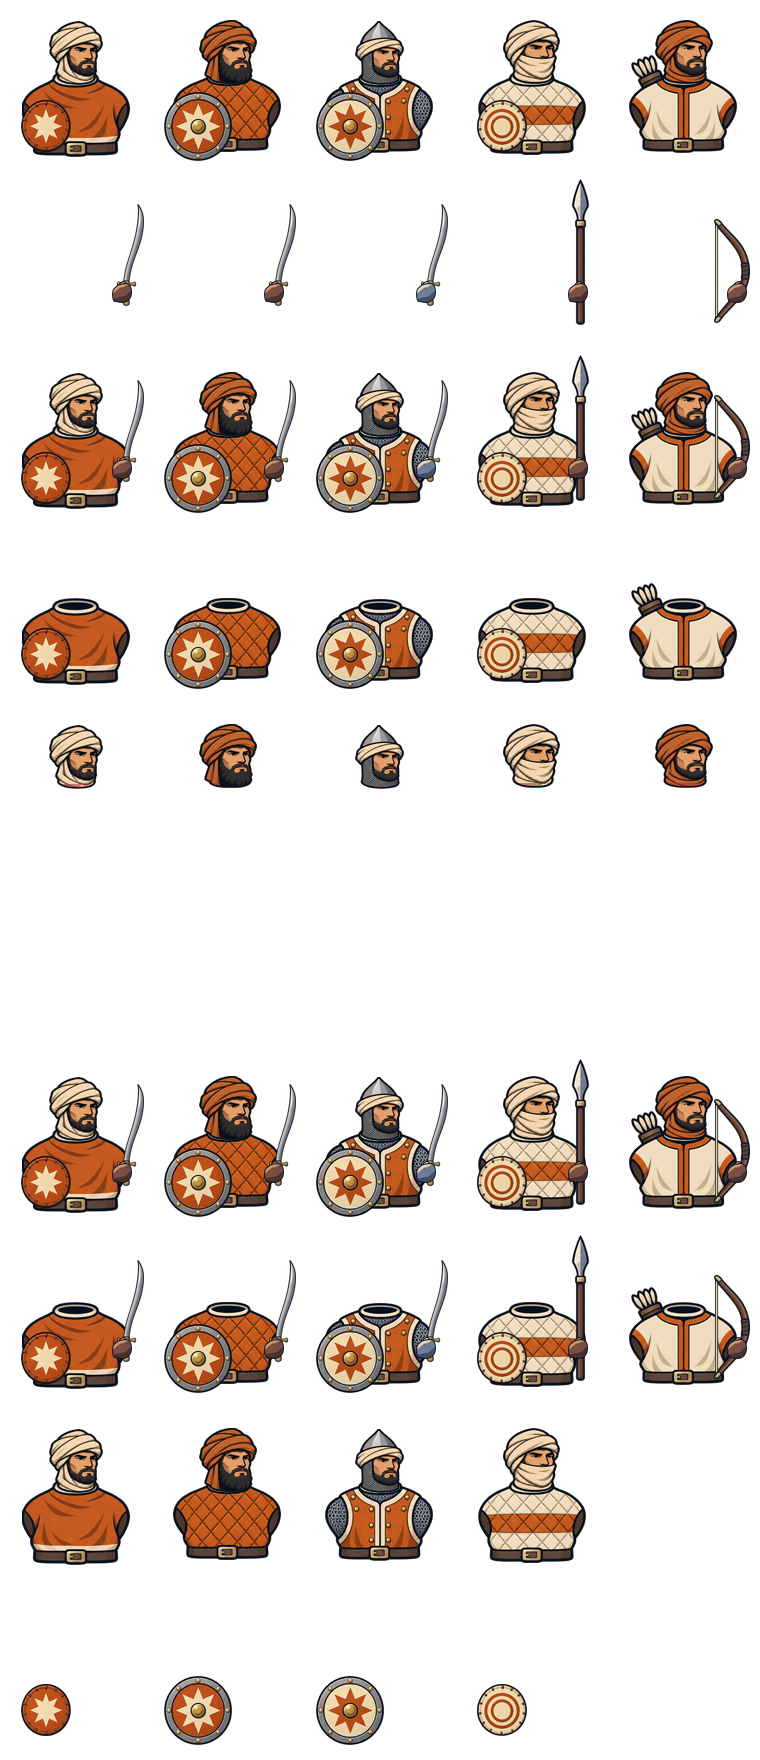
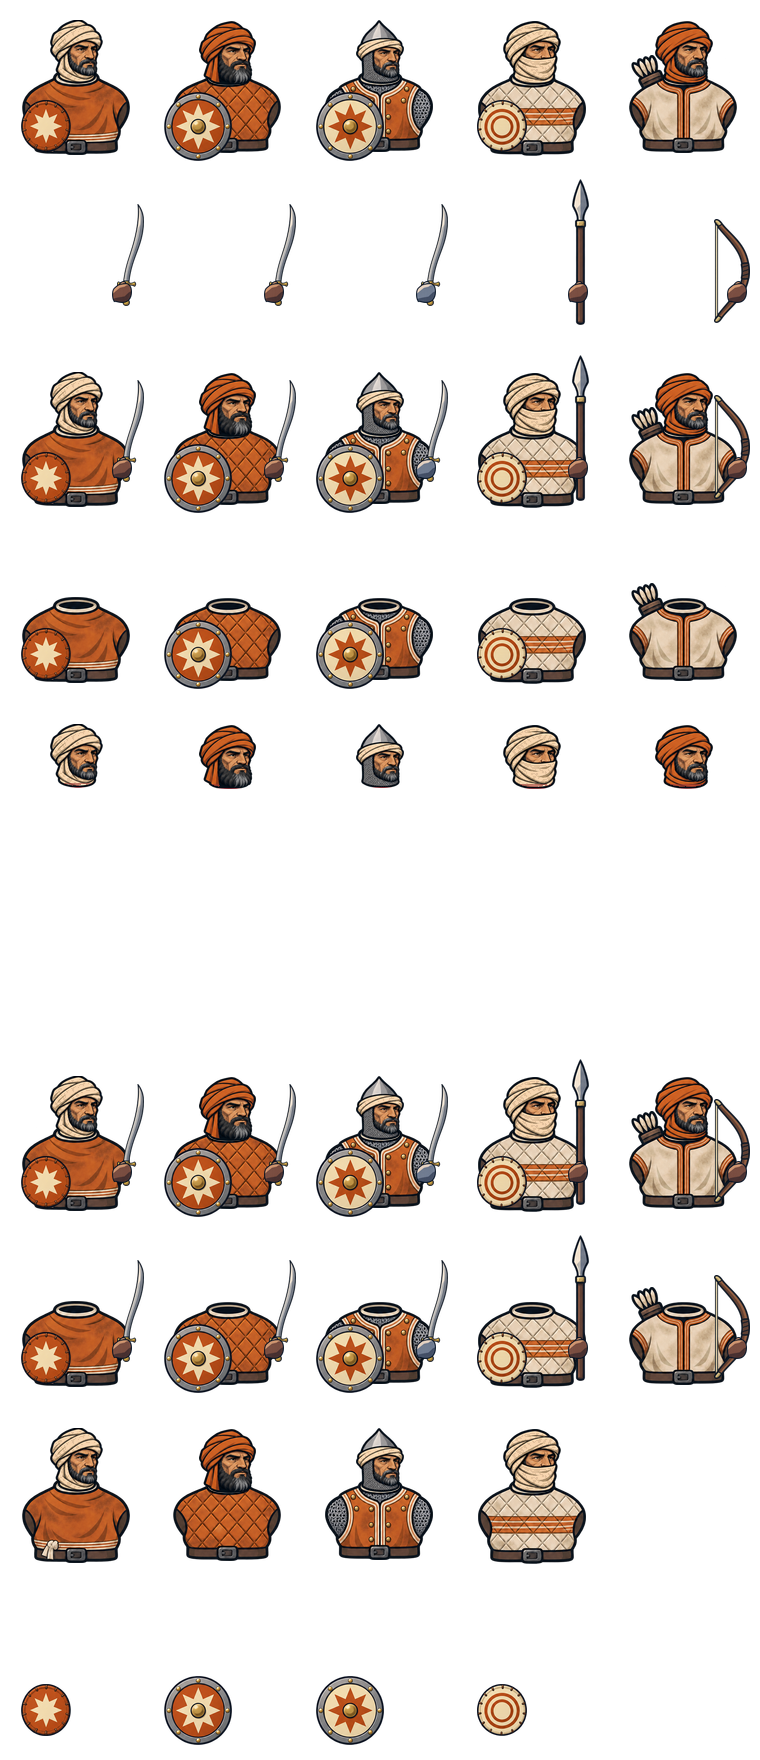
Эмират: варианты бойцов — другие лица, детали одежды и масти коней (#286)
Флаг variants: true у эмирата и листы emi-torsos-vN / emi-heads-vN.
Остальные фракции побайтно без изменений.

Claude-Session: https://claude.ai/code/session_0112NLBndME8PiXpuX2g7p2P

diff --git a/godot/tools/battle/heraldic_source/emi-prompts.md b/godot/tools/battle/heraldic_source/emi-prompts.md
@@ -57,3 +57,13 @@ Square canvas, STRICT 3x3 grid of equal cells, one shield centered in each used 
 8 m3c: small round gilded steel shield with a burnt-orange centre and a brass boss.
 9 EMPTY.
 ```
+
+## Варианты
+
+Листы `emi-torsos-v1…v3.png` и `emi-heads-v1…v3.png` — правка `emi-torsos.png` / `emi-heads.png` (вложение) тем же
+генератором, по образцу вариантов Галлии (`kin-prompts.md`). Туловища: v1 — выгоревшая ткань с заплатами, полосатая
+отделка, железные пряжки, кремовый кушак; v2 — ремни и наплечники, орнаментальная кайма, латунные заклёпки, сумки;
+v3 — выцветшая ткань, кремовая отделка ворота и перевязь, латунные бляхи, видна шнуровка ламелляра. В промпт добавлено
+«The rim at the back of the neck opening stays cream or orange, NOT grey». Головы: v1 — пожилые с проседью; v2 —
+молодые, короткие бороды или щетина; v3 — широкие лица, густые чёрные бороды или усы, шрамы. Закрывающие лицо уборы
+меняют одну мелочь: v1 кремовая обмотка, v2 полосатая лента, v3 латунное навершие.
